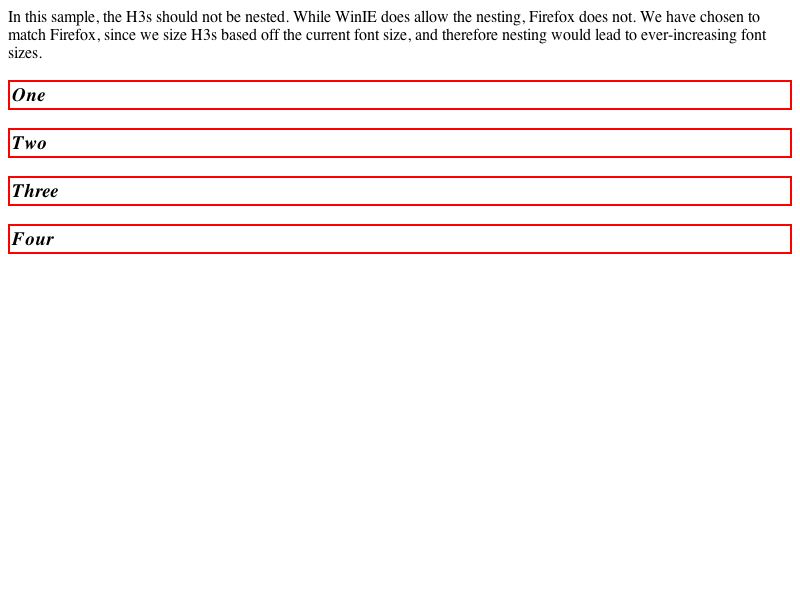
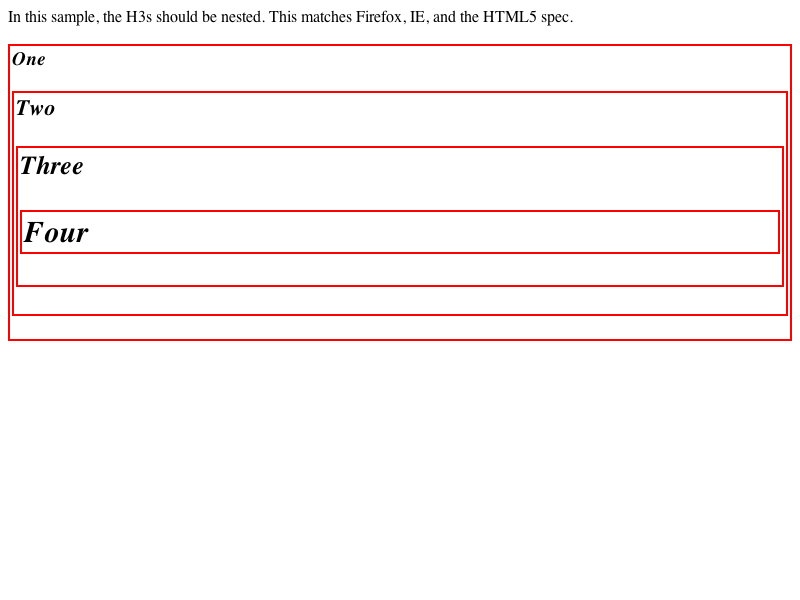
LayoutTests:
Reviewed by Dave Hyatt.

        Fixed <rdar://problem/4977124> | http://bugs.webkit.org/show_bug.cgi?id=12646
        REGRESSION: RapidWeaver's "Hello" HTML page doesn't display any DHTML
        effects when clicking on its links (12646)

        Added layout test for this bug:

        * fast/invalid/nestedh3s-rapidweaver-expected.txt: Added.
        * fast/invalid/nestedh3s-rapidweaver.html: Added.

        Reversed the expected results for this test because I rolled out r7703:

        * fast/invalid/nestedh3s-expected.checksum:
        * fast/invalid/nestedh3s-expected.png:
        * fast/invalid/nestedh3s-expected.txt:
        * fast/invalid/nestedh3s.html:

WebCore:

        Reviewed by Dave Hyatt.

        Fixed <rdar://problem/4977124> | http://bugs.webkit.org/show_bug.cgi?id=12646
        REGRESSION: RapidWeaver's "Hello" HTML page doesn't display any DHTML
        effects when clicking on its links (12646)

        I'm rolling our r7703 for these reasons:

        1. It broke RapidWeaver.

        2. WebKit is now orders of magnitude faster when handling deep nesting
        (5 seconds vs 3 minutes on my MBP in this particular case).

        3. Firefox, IE, and HTML5 all allow nested heading tags.

        4. Hyatt said so.

        * html/HTMLParser.cpp:
        (WebCore::HTMLParser::parseToken):

Identifier: 18515@main
git-svn-id: https://svn.webkit.org/repository/webkit/trunk@23728 268f45cc-cd09-0410-ab3c-d52691b4dbfc

Changed region(s): [[0.0, 0.0, 1.0, 0.57]]

diff --git a/LayoutTests/fast/invalid/nestedh3s-rapidweaver.html b/LayoutTests/fast/invalid/nestedh3s-rapidweaver.html
@@ -1,0 +1,20 @@
+<p>This page tests nesting h3 and h4 elements as seen in <a href="http://bugs.webkit.org/show_bug.cgi?id=12646">RapidWeaver 3.5.1</a>.</p>
+<hr>
+<pre id="console"></pre>
+
+<h3 id="h3"><a style="display: block"><h4>header</h4></a></h3><div>content</div>
+
+<script>
+function log(s)
+{
+    document.getElementById("console").appendChild(document.createTextNode(s + "\n"));
+}
+
+if (window.layoutTestController)
+    layoutTestController.dumpAsText();
+
+var h3 = document.getElementById("h3");
+log("h3.firstChild: " + h3.firstChild.tagName);
+log("h3.nextSibling: " + h3.nextSibling.tagName);
+log("h3.nextSibling.innerText: " + h3.nextSibling.innerText);
+</script>

diff --git a/LayoutTests/fast/invalid/nestedh3s.html b/LayoutTests/fast/invalid/nestedh3s.html
@@ -5,8 +5,6 @@ h3 { border: 2px solid red; padding: 2px; }
 </style>
 </head>
 <body>
-In this sample, the H3s should not be nested.  While WinIE does allow the nesting, Firefox does not.  We have chosen
-to match Firefox, since we size H3s based off the current font size, and therefore nesting would lead to ever-increasing
-font sizes.
+In this sample, the H3s should be nested. This matches Firefox, IE, and the HTML5 spec.
 
-<h3><i>One<h3><i>Two<h3><i>Three<h3><i>Four
+<h3><i>One<h3><i>Two<h3><i>Three<h3><i>Four</i></h3></i></h3></i></h3></i></h3>

diff --git a/WebCore/html/HTMLParser.cpp b/WebCore/html/HTMLParser.cpp
@@ -237,10 +237,6 @@ PassRefPtr<Node> HTMLParser::parseToken(Token* t)
         if (e->endTagRequirement() == TagStatusOptional)
             popBlock(t->tagName);
             
-        if (isHeaderTag(t->tagName))
-            // Do not allow two header tags to be nested if the intervening tags are inlines.
-            popNestedHeaderTag();
-            
         // If the node does not have a forbidden end tag requirement, and if the broken XML self-closing
         // syntax was used, report an error.
         if (t->brokenXMLStyle && e->endTagRequirement() != TagStatusForbidden) {
@@ -881,21 +877,6 @@ bool HTMLParser::isHeaderTag(const AtomicString& tagName)
     }
     
     return headerTags.contains(tagName.impl());
-}
-
-void HTMLParser::popNestedHeaderTag()
-{
-    // This function only cares about checking for nested headers that have only inlines in between them.
-    Node* currNode = current;
-    for (HTMLStackElem* curr = blockStack; curr; curr = curr->next) {
-        if (isHeaderTag(curr->tagName)) {
-            popBlock(curr->tagName);
-            return;
-        }
-        if (currNode && !isInline(currNode))
-            return;
-        currNode = curr->node;
-    }
 }
 
 bool HTMLParser::isInline(Node* node) const
